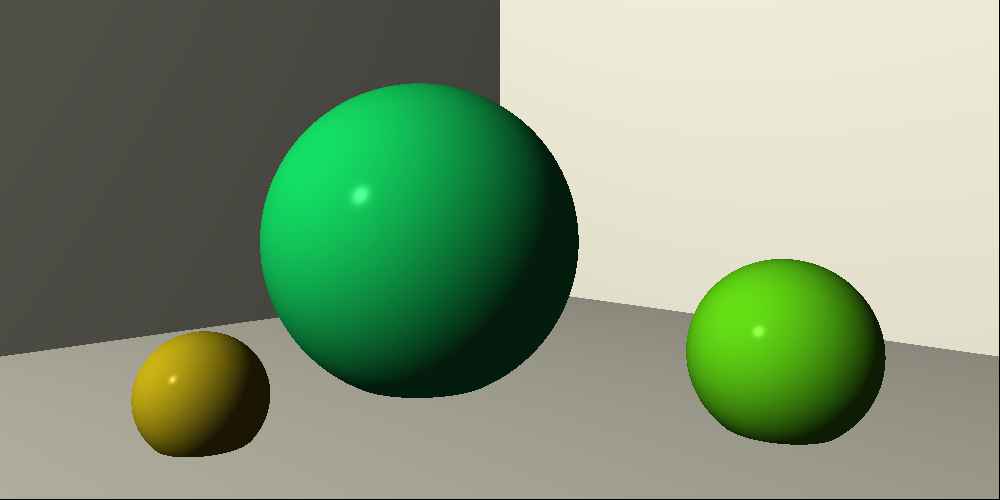
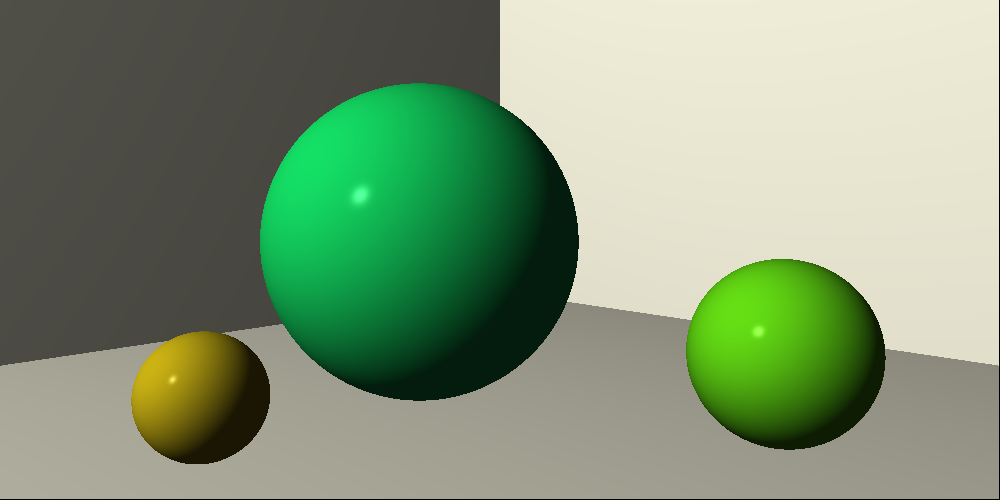
Fix demo erros (wrong scale factor in background)..

diff --git a/putting_it_together/chapter7.py b/putting_it_together/chapter7.py
@@ -1,6 +1,8 @@
 import datetime
 import math
 
+import numpy as np
+
 import matrix
 from camera import Camera
 from color import color
@@ -12,19 +14,19 @@ from world import World
 
 
 def main():
-    floor = sphere(scaling(10, 0.1, 10), material(color=color(1, 0.9, 0.9), specular=0))
-    left_wall = sphere(matrix.dot(matrix.translation(0, 0, 5), matrix.dot(matrix.rotation_y(- math.pi / 4),
-                                                                          matrix.dot(matrix.rotation_x(math.pi / 2),
-                                                                                     scaling(10, 0.1, 10)))),
+    floor = sphere(scaling(10, 0.01, 10), material(color=color(1, 0.9, 0.9), specular=0))
+    left_wall = sphere(np.matmul(matrix.translation(0, 0, 5), np.matmul(matrix.rotation_y(- math.pi / 4),
+                                                                        np.matmul(matrix.rotation_x(math.pi / 2),
+                                                                                  scaling(10, 0.01, 10)))),
                        floor.material)
-    right_wall = sphere(matrix.dot(matrix.translation(0, 0, 5), matrix.dot(matrix.rotation_y(math.pi / 4),
-                                                                           matrix.dot(matrix.rotation_x(math.pi / 2),
-                                                                                      scaling(10, 0.1, 10)))),
+    right_wall = sphere(np.matmul(matrix.translation(0, 0, 5), np.matmul(matrix.rotation_y(math.pi / 4),
+                                                                         np.matmul(matrix.rotation_x(math.pi / 2),
+                                                                                   scaling(10, 0.01, 10)))),
                         floor.material)
     middle = sphere(matrix.translation(-0.5, 1, 0.5), material(color=color(0.1, 1, 0.5), diffuse=0.7, specular=0.3))
-    right = sphere(matrix.dot(matrix.translation(1.5, 0.5, -0.5), scaling(0.5, 0.5, 0.5)),
+    right = sphere(np.matmul(matrix.translation(1.5, 0.5, -0.5), scaling(0.5, 0.5, 0.5)),
                    material(color=color(0.5, 1, 0.1), diffuse=0.7, specular=0.3))
-    left = sphere(matrix.dot(matrix.translation(-1.5, 0.33, -0.75), scaling(0.33, 0.33, 0.33)),
+    left = sphere(np.matmul(matrix.translation(-1.5, 0.33, -0.75), scaling(0.33, 0.33, 0.33)),
                   material(color=color(1.0, 0.8, 0.1), diffuse=0.7, specular=0.3))
 
     w = World(point_light(point(-10, 10, -10), color(1, 1.1)), [floor, left_wall, right_wall, middle, left, right])
